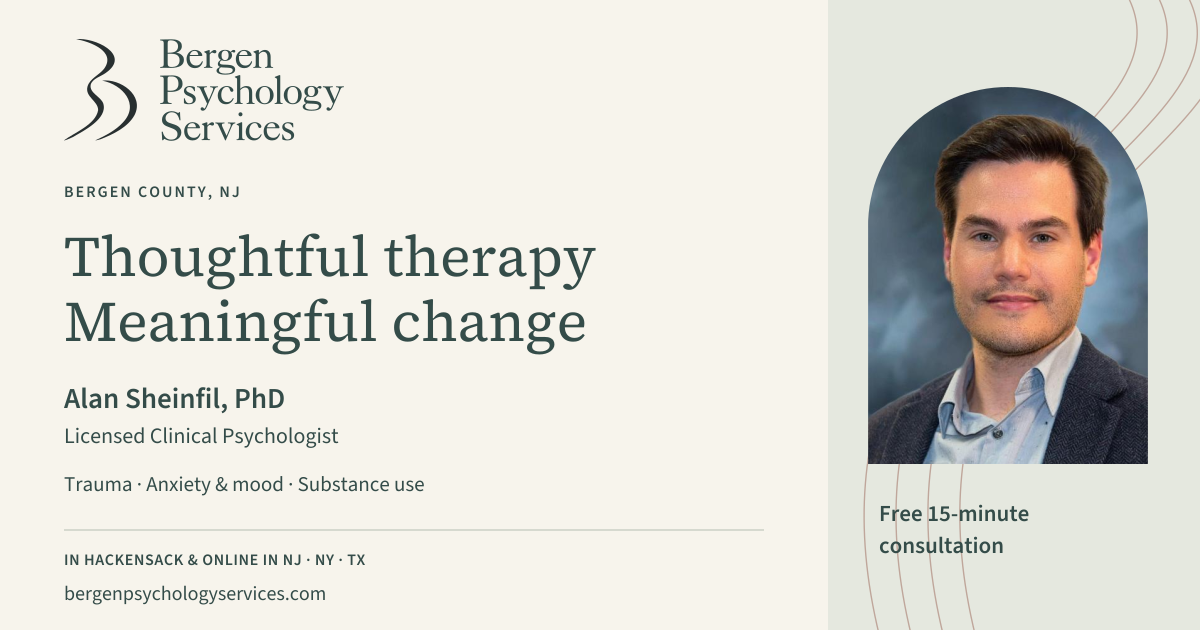
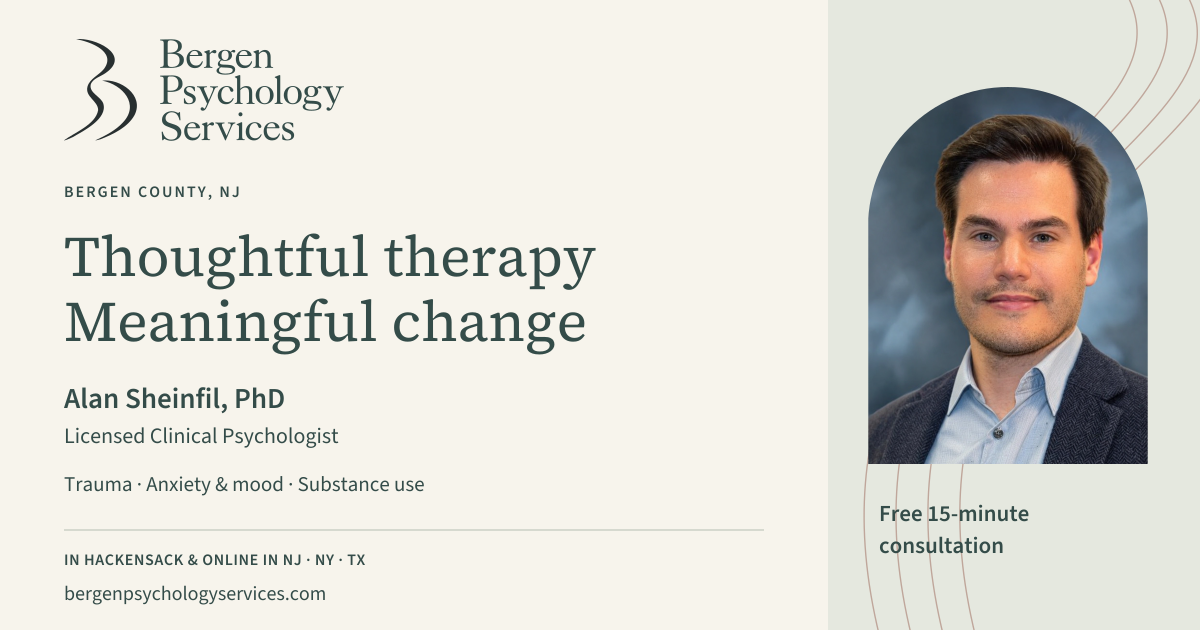
Replace the practice headshot and social preview

Changed region(s): [[0.7708, 0.5429, 0.8325, 0.754], [0.8633, 0.5429, 0.8942, 0.6937]]

diff --git a/index.html b/index.html
@@ -19,7 +19,7 @@
       content="Evidence-based psychotherapy for trauma, anxiety, depression, and substance use with psychologist Alan Sheinfil, PhD. Hackensack, NJ and online."
     />
     <meta property="og:url" content="https://bergenpsychologyservices.com/" />
-    <meta property="og:image" content="https://bergenpsychologyservices.com/assets/social-preview.png" />
+    <meta property="og:image" content="https://bergenpsychologyservices.com/assets/social-preview.png?v=20261117" />
     <meta property="og:image:type" content="image/png" />
     <meta property="og:image:width" content="1200" />
     <meta property="og:image:height" content="630" />
@@ -27,7 +27,7 @@
     <meta name="twitter:card" content="summary_large_image" />
     <meta name="twitter:title" content="Psychologist in Hackensack, NJ | Bergen Psychology Services" />
     <meta name="twitter:description" content="Evidence-based psychotherapy for trauma, anxiety, depression, and substance use with psychologist Alan Sheinfil, PhD. Hackensack, NJ and online." />
-    <meta name="twitter:image" content="https://bergenpsychologyservices.com/assets/social-preview.png" />
+    <meta name="twitter:image" content="https://bergenpsychologyservices.com/assets/social-preview.png?v=20261117" />
     <meta name="twitter:image:alt" content="Alan Sheinfil, PhD — Bergen Psychology Services. Therapy in Hackensack and online in New Jersey, New York, and Texas." />
     <meta name="theme-color" content="#344c49" />
     <link rel="icon" href="/Images/favicon.svg" type="image/svg+xml" />
@@ -65,7 +65,7 @@
           "postalCode": "07601",
           "addressCountry": "US"
         },
-        "image": "https://bergenpsychologyservices.com/Images/HeadShot-alans%20(1).png",
+        "image": "https://bergenpsychologyservices.com/Images/alan-sheinfil-headshot.webp",
         "founder": {
           "@type": "Person",
           "name": "Alan Sheinfil",
@@ -141,10 +141,10 @@
           </div>
           <figure class="hero-portrait">
             <img
-              src="/Images/HeadShot-alans%20(1).png"
+              src="/Images/alan-sheinfil-headshot.webp"
               alt="Dr. Alan Sheinfil"
-              width="446"
-              height="601"
+              width="1080"
+              height="1457"
               fetchpriority="high"
             />
             <figcaption>

diff --git a/about/index.html b/about/index.html
@@ -25,7 +25,7 @@
       property="og:url"
       content="https://bergenpsychologyservices.com/about/"
     />
-    <meta property="og:image" content="https://bergenpsychologyservices.com/assets/social-preview.png" />
+    <meta property="og:image" content="https://bergenpsychologyservices.com/assets/social-preview.png?v=20261117" />
     <meta property="og:image:type" content="image/png" />
     <meta property="og:image:width" content="1200" />
     <meta property="og:image:height" content="630" />
@@ -33,7 +33,7 @@
     <meta name="twitter:card" content="summary_large_image" />
     <meta name="twitter:title" content="Alan Sheinfil, PhD | Psychologist in Hackensack, NJ" />
     <meta name="twitter:description" content="Meet Alan Sheinfil, PhD, licensed clinical psychologist and FDU faculty member. Collaborative, research-informed psychotherapy in Bergen County." />
-    <meta name="twitter:image" content="https://bergenpsychologyservices.com/assets/social-preview.png" />
+    <meta name="twitter:image" content="https://bergenpsychologyservices.com/assets/social-preview.png?v=20261117" />
     <meta name="twitter:image:alt" content="Alan Sheinfil, PhD — Bergen Psychology Services. Therapy in Hackensack and online in New Jersey, New York, and Texas." />
     <meta name="theme-color" content="#344c49" />
     <link rel="icon" href="/Images/favicon.svg" type="image/svg+xml" />
@@ -71,7 +71,7 @@
           "postalCode": "07601",
           "addressCountry": "US"
         },
-        "image": "https://bergenpsychologyservices.com/Images/HeadShot-alans%20(1).png",
+        "image": "https://bergenpsychologyservices.com/Images/alan-sheinfil-headshot.webp",
         "founder": {
           "@type": "Person",
           "name": "Alan Sheinfil",
@@ -134,10 +134,10 @@
         <div class="container about-layout">
           <figure class="about-portrait">
             <img
-              src="/Images/HeadShot-alans%20(1).png"
+              src="/Images/alan-sheinfil-headshot.webp"
               alt="Alan Sheinfil, PhD"
-              width="446"
-              height="601"
+              width="1080"
+              height="1457"
             />
             <figcaption>
               Alan Sheinfil, PhD<br />Licensed in New Jersey, New York &amp;

diff --git a/substance-use-therapy/index.html b/substance-use-therapy/index.html
@@ -25,7 +25,7 @@
       property="og:url"
       content="https://bergenpsychologyservices.com/substance-use-therapy/"
     />
-    <meta property="og:image" content="https://bergenpsychologyservices.com/assets/social-preview.png" />
+    <meta property="og:image" content="https://bergenpsychologyservices.com/assets/social-preview.png?v=20261117" />
     <meta property="og:image:type" content="image/png" />
     <meta property="og:image:width" content="1200" />
     <meta property="og:image:height" content="630" />
@@ -33,7 +33,7 @@
     <meta name="twitter:card" content="summary_large_image" />
     <meta name="twitter:title" content="Substance Use Therapy in Bergen County, NJ | Dr. Sheinfil" />
     <meta name="twitter:description" content="Collaborative substance use therapy for adults with psychologist Alan Sheinfil, PhD. Individual treatment in Bergen County, Hackensack, and online." />
-    <meta name="twitter:image" content="https://bergenpsychologyservices.com/assets/social-preview.png" />
+    <meta name="twitter:image" content="https://bergenpsychologyservices.com/assets/social-preview.png?v=20261117" />
     <meta name="twitter:image:alt" content="Alan Sheinfil, PhD — Bergen Psychology Services. Therapy in Hackensack and online in New Jersey, New York, and Texas." />
     <meta name="theme-color" content="#344c49" />
     <link rel="icon" href="/Images/favicon.svg" type="image/svg+xml" />
@@ -71,7 +71,7 @@
           "postalCode": "07601",
           "addressCountry": "US"
         },
-        "image": "https://bergenpsychologyservices.com/Images/HeadShot-alans%20(1).png",
+        "image": "https://bergenpsychologyservices.com/Images/alan-sheinfil-headshot.webp",
         "founder": {
           "@type": "Person",
           "name": "Alan Sheinfil",

diff --git a/approach/index.html b/approach/index.html
@@ -25,7 +25,7 @@
       property="og:url"
       content="https://bergenpsychologyservices.com/approach/"
     />
-    <meta property="og:image" content="https://bergenpsychologyservices.com/assets/social-preview.png" />
+    <meta property="og:image" content="https://bergenpsychologyservices.com/assets/social-preview.png?v=20261117" />
     <meta property="og:image:type" content="image/png" />
     <meta property="og:image:width" content="1200" />
     <meta property="og:image:height" content="630" />
@@ -33,7 +33,7 @@
     <meta name="twitter:card" content="summary_large_image" />
     <meta name="twitter:title" content="CBT &amp; ACT Therapy in Hackensack, NJ | Dr. Alan Sheinfil" />
     <meta name="twitter:description" content="Learn how CBT and ACT inform collaborative, practical therapy with Dr. Alan Sheinfil: understanding patterns, trying new responses, and reviewing progress." />
-    <meta name="twitter:image" content="https://bergenpsychologyservices.com/assets/social-preview.png" />
+    <meta name="twitter:image" content="https://bergenpsychologyservices.com/assets/social-preview.png?v=20261117" />
     <meta name="twitter:image:alt" content="Alan Sheinfil, PhD — Bergen Psychology Services. Therapy in Hackensack and online in New Jersey, New York, and Texas." />
     <meta name="theme-color" content="#344c49" />
     <link rel="icon" href="/Images/favicon.svg" type="image/svg+xml" />
@@ -71,7 +71,7 @@
           "postalCode": "07601",
           "addressCountry": "US"
         },
-        "image": "https://bergenpsychologyservices.com/Images/HeadShot-alans%20(1).png",
+        "image": "https://bergenpsychologyservices.com/Images/alan-sheinfil-headshot.webp",
         "founder": {
           "@type": "Person",
           "name": "Alan Sheinfil",

diff --git a/anxiety-mood-therapy/index.html b/anxiety-mood-therapy/index.html
@@ -25,7 +25,7 @@
       property="og:url"
       content="https://bergenpsychologyservices.com/anxiety-mood-therapy/"
     />
-    <meta property="og:image" content="https://bergenpsychologyservices.com/assets/social-preview.png" />
+    <meta property="og:image" content="https://bergenpsychologyservices.com/assets/social-preview.png?v=20261117" />
     <meta property="og:image:type" content="image/png" />
     <meta property="og:image:width" content="1200" />
     <meta property="og:image:height" content="630" />
@@ -33,7 +33,7 @@
     <meta name="twitter:card" content="summary_large_image" />
     <meta name="twitter:title" content="Anxiety &amp; Depression Therapy in Bergen County, NJ" />
     <meta name="twitter:description" content="Anxiety and depression therapy for adults with psychologist Alan Sheinfil, PhD. Evidence-based treatment in Bergen County, Hackensack, and online." />
-    <meta name="twitter:image" content="https://bergenpsychologyservices.com/assets/social-preview.png" />
+    <meta name="twitter:image" content="https://bergenpsychologyservices.com/assets/social-preview.png?v=20261117" />
     <meta name="twitter:image:alt" content="Alan Sheinfil, PhD — Bergen Psychology Services. Therapy in Hackensack and online in New Jersey, New York, and Texas." />
     <meta name="theme-color" content="#344c49" />
     <link rel="icon" href="/Images/favicon.svg" type="image/svg+xml" />
@@ -71,7 +71,7 @@
           "postalCode": "07601",
           "addressCountry": "US"
         },
-        "image": "https://bergenpsychologyservices.com/Images/HeadShot-alans%20(1).png",
+        "image": "https://bergenpsychologyservices.com/Images/alan-sheinfil-headshot.webp",
         "founder": {
           "@type": "Person",
           "name": "Alan Sheinfil",

diff --git a/services/index.html b/services/index.html
@@ -25,7 +25,7 @@
       property="og:url"
       content="https://bergenpsychologyservices.com/services/"
     />
-    <meta property="og:image" content="https://bergenpsychologyservices.com/assets/social-preview.png" />
+    <meta property="og:image" content="https://bergenpsychologyservices.com/assets/social-preview.png?v=20261117" />
     <meta property="og:image:type" content="image/png" />
     <meta property="og:image:width" content="1200" />
     <meta property="og:image:height" content="630" />
@@ -33,7 +33,7 @@
     <meta name="twitter:card" content="summary_large_image" />
     <meta name="twitter:title" content="Individual Therapy in Bergen County, NJ | Dr. Sheinfil" />
     <meta name="twitter:description" content="Individual psychotherapy for adults in Bergen County, NJ, addressing trauma, anxiety, depression, and substance use. Hackensack and telehealth options." />
-    <meta name="twitter:image" content="https://bergenpsychologyservices.com/assets/social-preview.png" />
+    <meta name="twitter:image" content="https://bergenpsychologyservices.com/assets/social-preview.png?v=20261117" />
     <meta name="twitter:image:alt" content="Alan Sheinfil, PhD — Bergen Psychology Services. Therapy in Hackensack and online in New Jersey, New York, and Texas." />
     <meta name="theme-color" content="#344c49" />
     <link rel="icon" href="/Images/favicon.svg" type="image/svg+xml" />
@@ -71,7 +71,7 @@
           "postalCode": "07601",
           "addressCountry": "US"
         },
-        "image": "https://bergenpsychologyservices.com/Images/HeadShot-alans%20(1).png",
+        "image": "https://bergenpsychologyservices.com/Images/alan-sheinfil-headshot.webp",
         "founder": {
           "@type": "Person",
           "name": "Alan Sheinfil",

diff --git a/good-faith-estimate/index.html b/good-faith-estimate/index.html
@@ -25,7 +25,7 @@
       property="og:url"
       content="https://bergenpsychologyservices.com/good-faith-estimate/"
     />
-    <meta property="og:image" content="https://bergenpsychologyservices.com/assets/social-preview.png" />
+    <meta property="og:image" content="https://bergenpsychologyservices.com/assets/social-preview.png?v=20261117" />
     <meta property="og:image:type" content="image/png" />
     <meta property="og:image:width" content="1200" />
     <meta property="og:image:height" content="630" />
@@ -33,7 +33,7 @@
     <meta name="twitter:card" content="summary_large_image" />
     <meta name="twitter:title" content="Good Faith Estimate Rights | Bergen Psychology Services" />
     <meta name="twitter:description" content="Learn about your right to an estimate of expected healthcare costs when you do not have insurance or choose not to use insurance for care." />
-    <meta name="twitter:image" content="https://bergenpsychologyservices.com/assets/social-preview.png" />
+    <meta name="twitter:image" content="https://bergenpsychologyservices.com/assets/social-preview.png?v=20261117" />
     <meta name="twitter:image:alt" content="Alan Sheinfil, PhD — Bergen Psychology Services. Therapy in Hackensack and online in New Jersey, New York, and Texas." />
     <meta name="theme-color" content="#344c49" />
     <link rel="icon" href="/Images/favicon.svg" type="image/svg+xml" />
@@ -71,7 +71,7 @@
           "postalCode": "07601",
           "addressCountry": "US"
         },
-        "image": "https://bergenpsychologyservices.com/Images/HeadShot-alans%20(1).png",
+        "image": "https://bergenpsychologyservices.com/Images/alan-sheinfil-headshot.webp",
         "founder": {
           "@type": "Person",
           "name": "Alan Sheinfil",

diff --git a/privacy/index.html b/privacy/index.html
@@ -25,7 +25,7 @@
       property="og:url"
       content="https://bergenpsychologyservices.com/privacy/"
     />
-    <meta property="og:image" content="https://bergenpsychologyservices.com/assets/social-preview.png" />
+    <meta property="og:image" content="https://bergenpsychologyservices.com/assets/social-preview.png?v=20261117" />
     <meta property="og:image:type" content="image/png" />
     <meta property="og:image:width" content="1200" />
     <meta property="og:image:height" content="630" />
@@ -33,7 +33,7 @@
     <meta name="twitter:card" content="summary_large_image" />
     <meta name="twitter:title" content="Website Privacy Notice | Bergen Psychology Services" />
     <meta name="twitter:description" content="How Bergen Psychology Services uses consultation request information, the limits of website inquiries, and how to contact the practice about privacy." />
-    <meta name="twitter:image" content="https://bergenpsychologyservices.com/assets/social-preview.png" />
+    <meta name="twitter:image" content="https://bergenpsychologyservices.com/assets/social-preview.png?v=20261117" />
     <meta name="twitter:image:alt" content="Alan Sheinfil, PhD — Bergen Psychology Services. Therapy in Hackensack and online in New Jersey, New York, and Texas." />
     <meta name="theme-color" content="#344c49" />
     <link rel="icon" href="/Images/favicon.svg" type="image/svg+xml" />
@@ -71,7 +71,7 @@
           "postalCode": "07601",
           "addressCountry": "US"
         },
-        "image": "https://bergenpsychologyservices.com/Images/HeadShot-alans%20(1).png",
+        "image": "https://bergenpsychologyservices.com/Images/alan-sheinfil-headshot.webp",
         "founder": {
           "@type": "Person",
           "name": "Alan Sheinfil",

diff --git a/trauma-therapy/index.html b/trauma-therapy/index.html
@@ -25,7 +25,7 @@
       property="og:url"
       content="https://bergenpsychologyservices.com/trauma-therapy/"
     />
-    <meta property="og:image" content="https://bergenpsychologyservices.com/assets/social-preview.png" />
+    <meta property="og:image" content="https://bergenpsychologyservices.com/assets/social-preview.png?v=20261117" />
     <meta property="og:image:type" content="image/png" />
     <meta property="og:image:width" content="1200" />
     <meta property="og:image:height" content="630" />
@@ -33,7 +33,7 @@
     <meta name="twitter:card" content="summary_large_image" />
     <meta name="twitter:title" content="Trauma Therapy in Bergen County, NJ | Alan Sheinfil, PhD" />
     <meta name="twitter:description" content="Trauma therapy for adults in Bergen County, NJ, with psychologist Alan Sheinfil, PhD. Collaborative care in Hackensack and by telehealth." />
-    <meta name="twitter:image" content="https://bergenpsychologyservices.com/assets/social-preview.png" />
+    <meta name="twitter:image" content="https://bergenpsychologyservices.com/assets/social-preview.png?v=20261117" />
     <meta name="twitter:image:alt" content="Alan Sheinfil, PhD — Bergen Psychology Services. Therapy in Hackensack and online in New Jersey, New York, and Texas." />
     <meta name="theme-color" content="#344c49" />
     <link rel="icon" href="/Images/favicon.svg" type="image/svg+xml" />
@@ -71,7 +71,7 @@
           "postalCode": "07601",
           "addressCountry": "US"
         },
-        "image": "https://bergenpsychologyservices.com/Images/HeadShot-alans%20(1).png",
+        "image": "https://bergenpsychologyservices.com/Images/alan-sheinfil-headshot.webp",
         "founder": {
           "@type": "Person",
           "name": "Alan Sheinfil",

diff --git a/faq/index.html b/faq/index.html
@@ -25,7 +25,7 @@
       property="og:url"
       content="https://bergenpsychologyservices.com/faq/"
     />
-    <meta property="og:image" content="https://bergenpsychologyservices.com/assets/social-preview.png" />
+    <meta property="og:image" content="https://bergenpsychologyservices.com/assets/social-preview.png?v=20261117" />
     <meta property="og:image:type" content="image/png" />
     <meta property="og:image:width" content="1200" />
     <meta property="og:image:height" content="630" />
@@ -33,7 +33,7 @@
     <meta name="twitter:card" content="summary_large_image" />
     <meta name="twitter:title" content="Therapy Fees &amp; FAQs | Bergen Psychology Services" />
     <meta name="twitter:description" content="Answers about therapy fees, out-of-network insurance, telehealth, Hackensack appointments, and the free 15-minute consultation with Dr. Alan Sheinfil." />
-    <meta name="twitter:image" content="https://bergenpsychologyservices.com/assets/social-preview.png" />
+    <meta name="twitter:image" content="https://bergenpsychologyservices.com/assets/social-preview.png?v=20261117" />
     <meta name="twitter:image:alt" content="Alan Sheinfil, PhD — Bergen Psychology Services. Therapy in Hackensack and online in New Jersey, New York, and Texas." />
     <meta name="theme-color" content="#344c49" />
     <link rel="icon" href="/Images/favicon.svg" type="image/svg+xml" />
@@ -71,7 +71,7 @@
           "postalCode": "07601",
           "addressCountry": "US"
         },
-        "image": "https://bergenpsychologyservices.com/Images/HeadShot-alans%20(1).png",
+        "image": "https://bergenpsychologyservices.com/Images/alan-sheinfil-headshot.webp",
         "founder": {
           "@type": "Person",
           "name": "Alan Sheinfil",

diff --git a/get-started/index.html b/get-started/index.html
@@ -25,7 +25,7 @@
       property="og:url"
       content="https://bergenpsychologyservices.com/get-started/"
     />
-    <meta property="og:image" content="https://bergenpsychologyservices.com/assets/social-preview.png" />
+    <meta property="og:image" content="https://bergenpsychologyservices.com/assets/social-preview.png?v=20261117" />
     <meta property="og:image:type" content="image/png" />
     <meta property="og:image:width" content="1200" />
     <meta property="og:image:height" content="630" />
@@ -33,7 +33,7 @@
     <meta name="twitter:card" content="summary_large_image" />
     <meta name="twitter:title" content="Free Therapy Consultation | Dr. Alan Sheinfil" />
     <meta name="twitter:description" content="Request a free 15-minute consultation with Dr. Alan Sheinfil. Contact Bergen Psychology Services for psychotherapy in Hackensack and by telehealth." />
-    <meta name="twitter:image" content="https://bergenpsychologyservices.com/assets/social-preview.png" />
+    <meta name="twitter:image" content="https://bergenpsychologyservices.com/assets/social-preview.png?v=20261117" />
     <meta name="twitter:image:alt" content="Alan Sheinfil, PhD — Bergen Psychology Services. Therapy in Hackensack and online in New Jersey, New York, and Texas." />
     <meta name="theme-color" content="#344c49" />
     <link rel="icon" href="/Images/favicon.svg" type="image/svg+xml" />
@@ -71,7 +71,7 @@
           "postalCode": "07601",
           "addressCountry": "US"
         },
-        "image": "https://bergenpsychologyservices.com/Images/HeadShot-alans%20(1).png",
+        "image": "https://bergenpsychologyservices.com/Images/alan-sheinfil-headshot.webp",
         "founder": {
           "@type": "Person",
           "name": "Alan Sheinfil",

diff --git a/thank-you/index.html b/thank-you/index.html
@@ -26,7 +26,7 @@
       property="og:url"
       content="https://bergenpsychologyservices.com/thank-you/"
     />
-    <meta property="og:image" content="https://bergenpsychologyservices.com/assets/social-preview.png" />
+    <meta property="og:image" content="https://bergenpsychologyservices.com/assets/social-preview.png?v=20261117" />
     <meta property="og:image:type" content="image/png" />
     <meta property="og:image:width" content="1200" />
     <meta property="og:image:height" content="630" />
@@ -34,7 +34,7 @@
     <meta name="twitter:card" content="summary_large_image" />
     <meta name="twitter:title" content="Thank You | Bergen Psychology Services" />
     <meta name="twitter:description" content="Thank you for your consultation request. Dr. Sheinfil will reach out within 24–48 hours at your preferred contact time." />
-    <meta name="twitter:image" content="https://bergenpsychologyservices.com/assets/social-preview.png" />
+    <meta name="twitter:image" content="https://bergenpsychologyservices.com/assets/social-preview.png?v=20261117" />
     <meta name="twitter:image:alt" content="Alan Sheinfil, PhD — Bergen Psychology Services. Therapy in Hackensack and online in New Jersey, New York, and Texas." />
     <meta name="theme-color" content="#344c49" />
     <link rel="icon" href="/Images/favicon.svg" type="image/svg+xml" />
